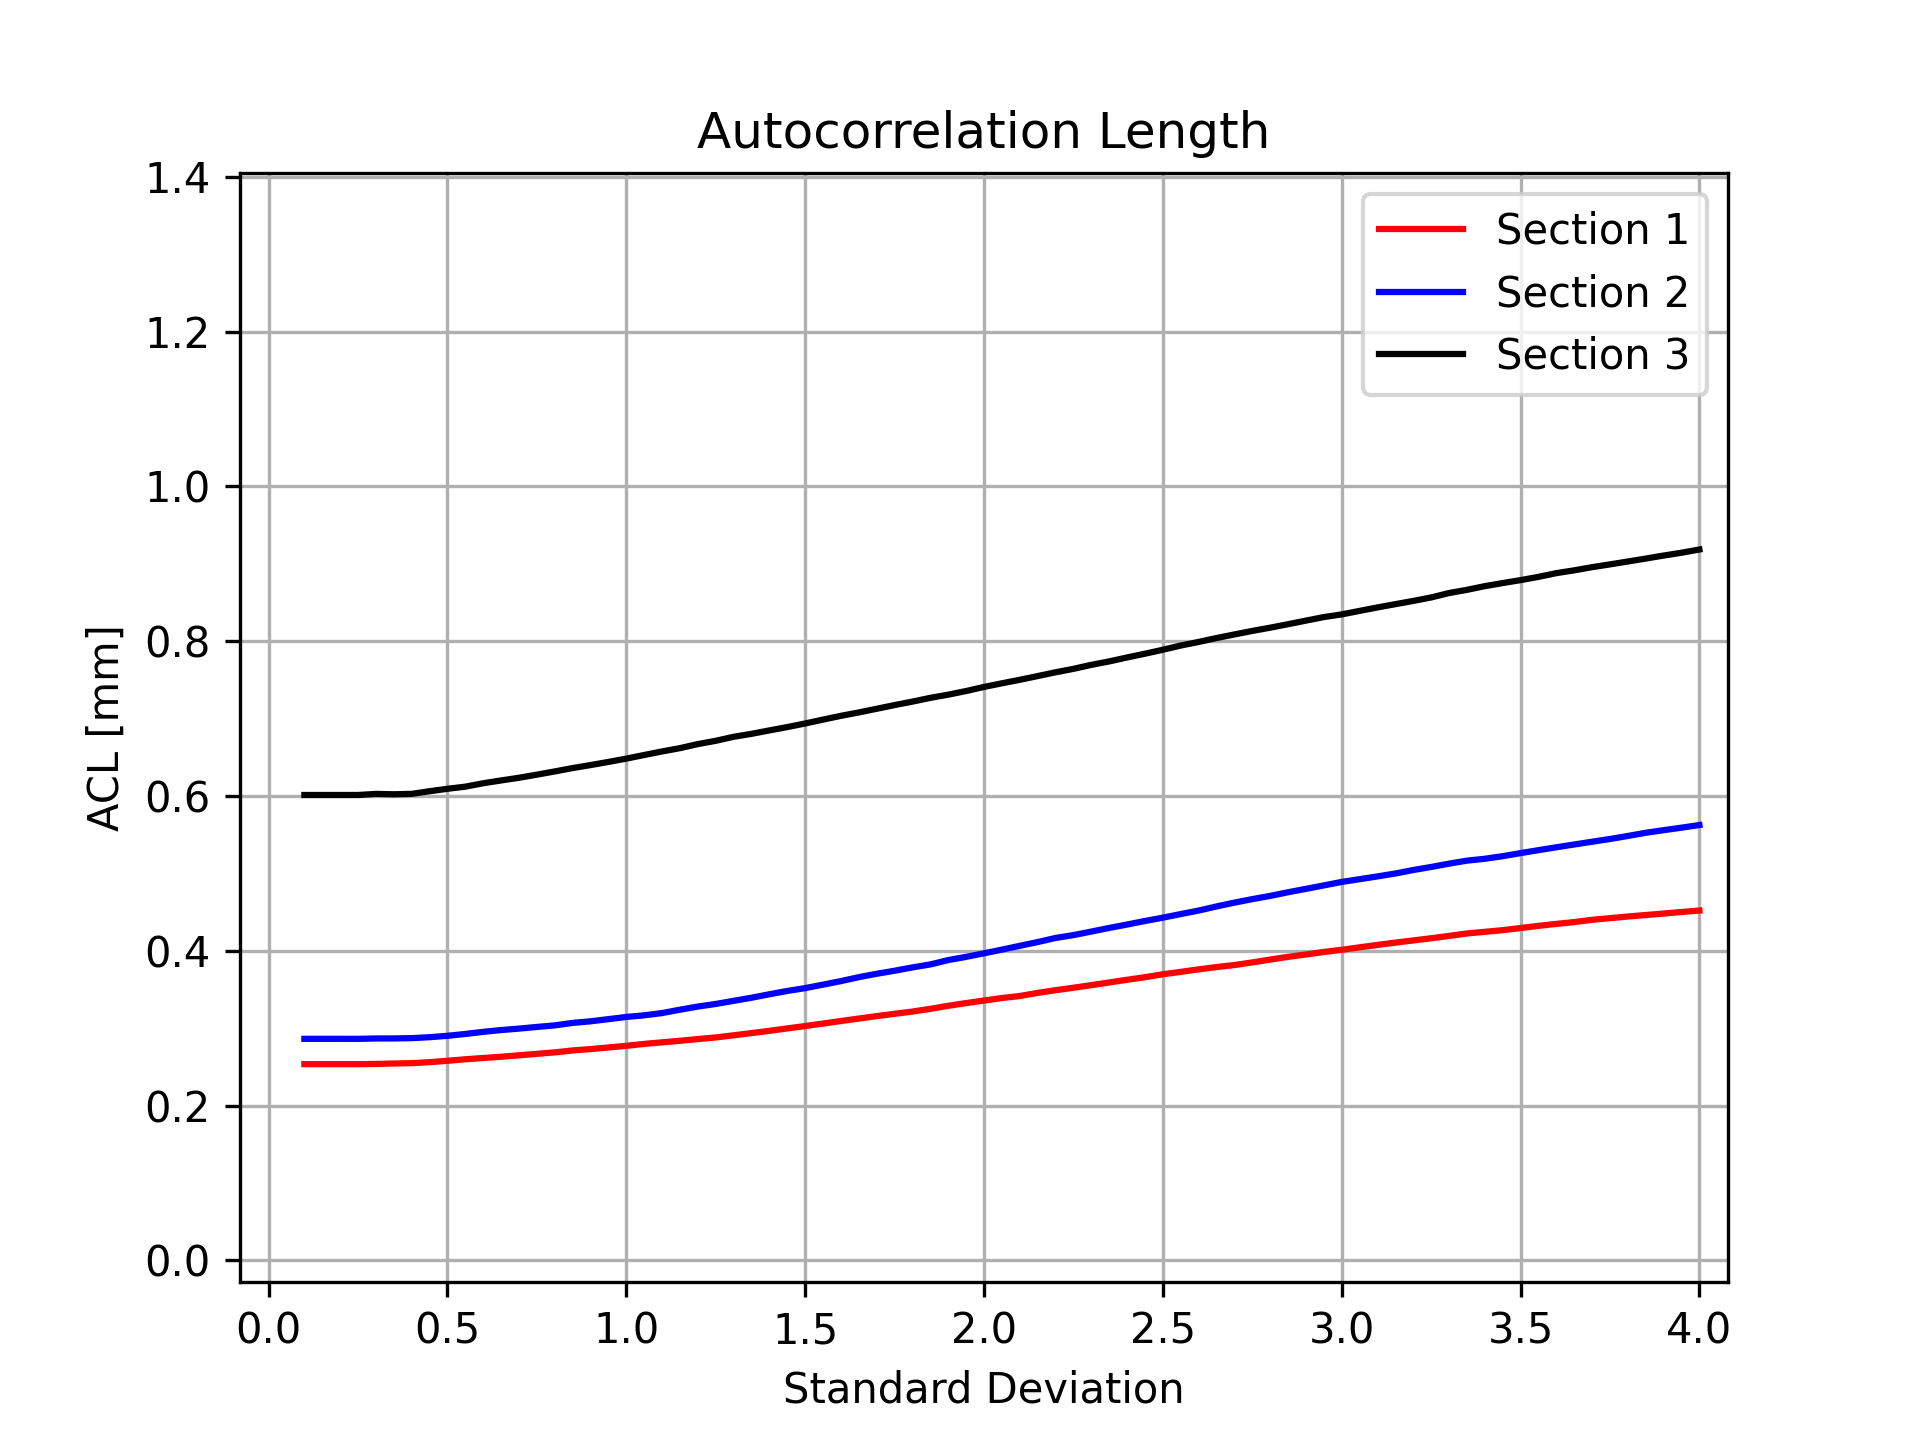
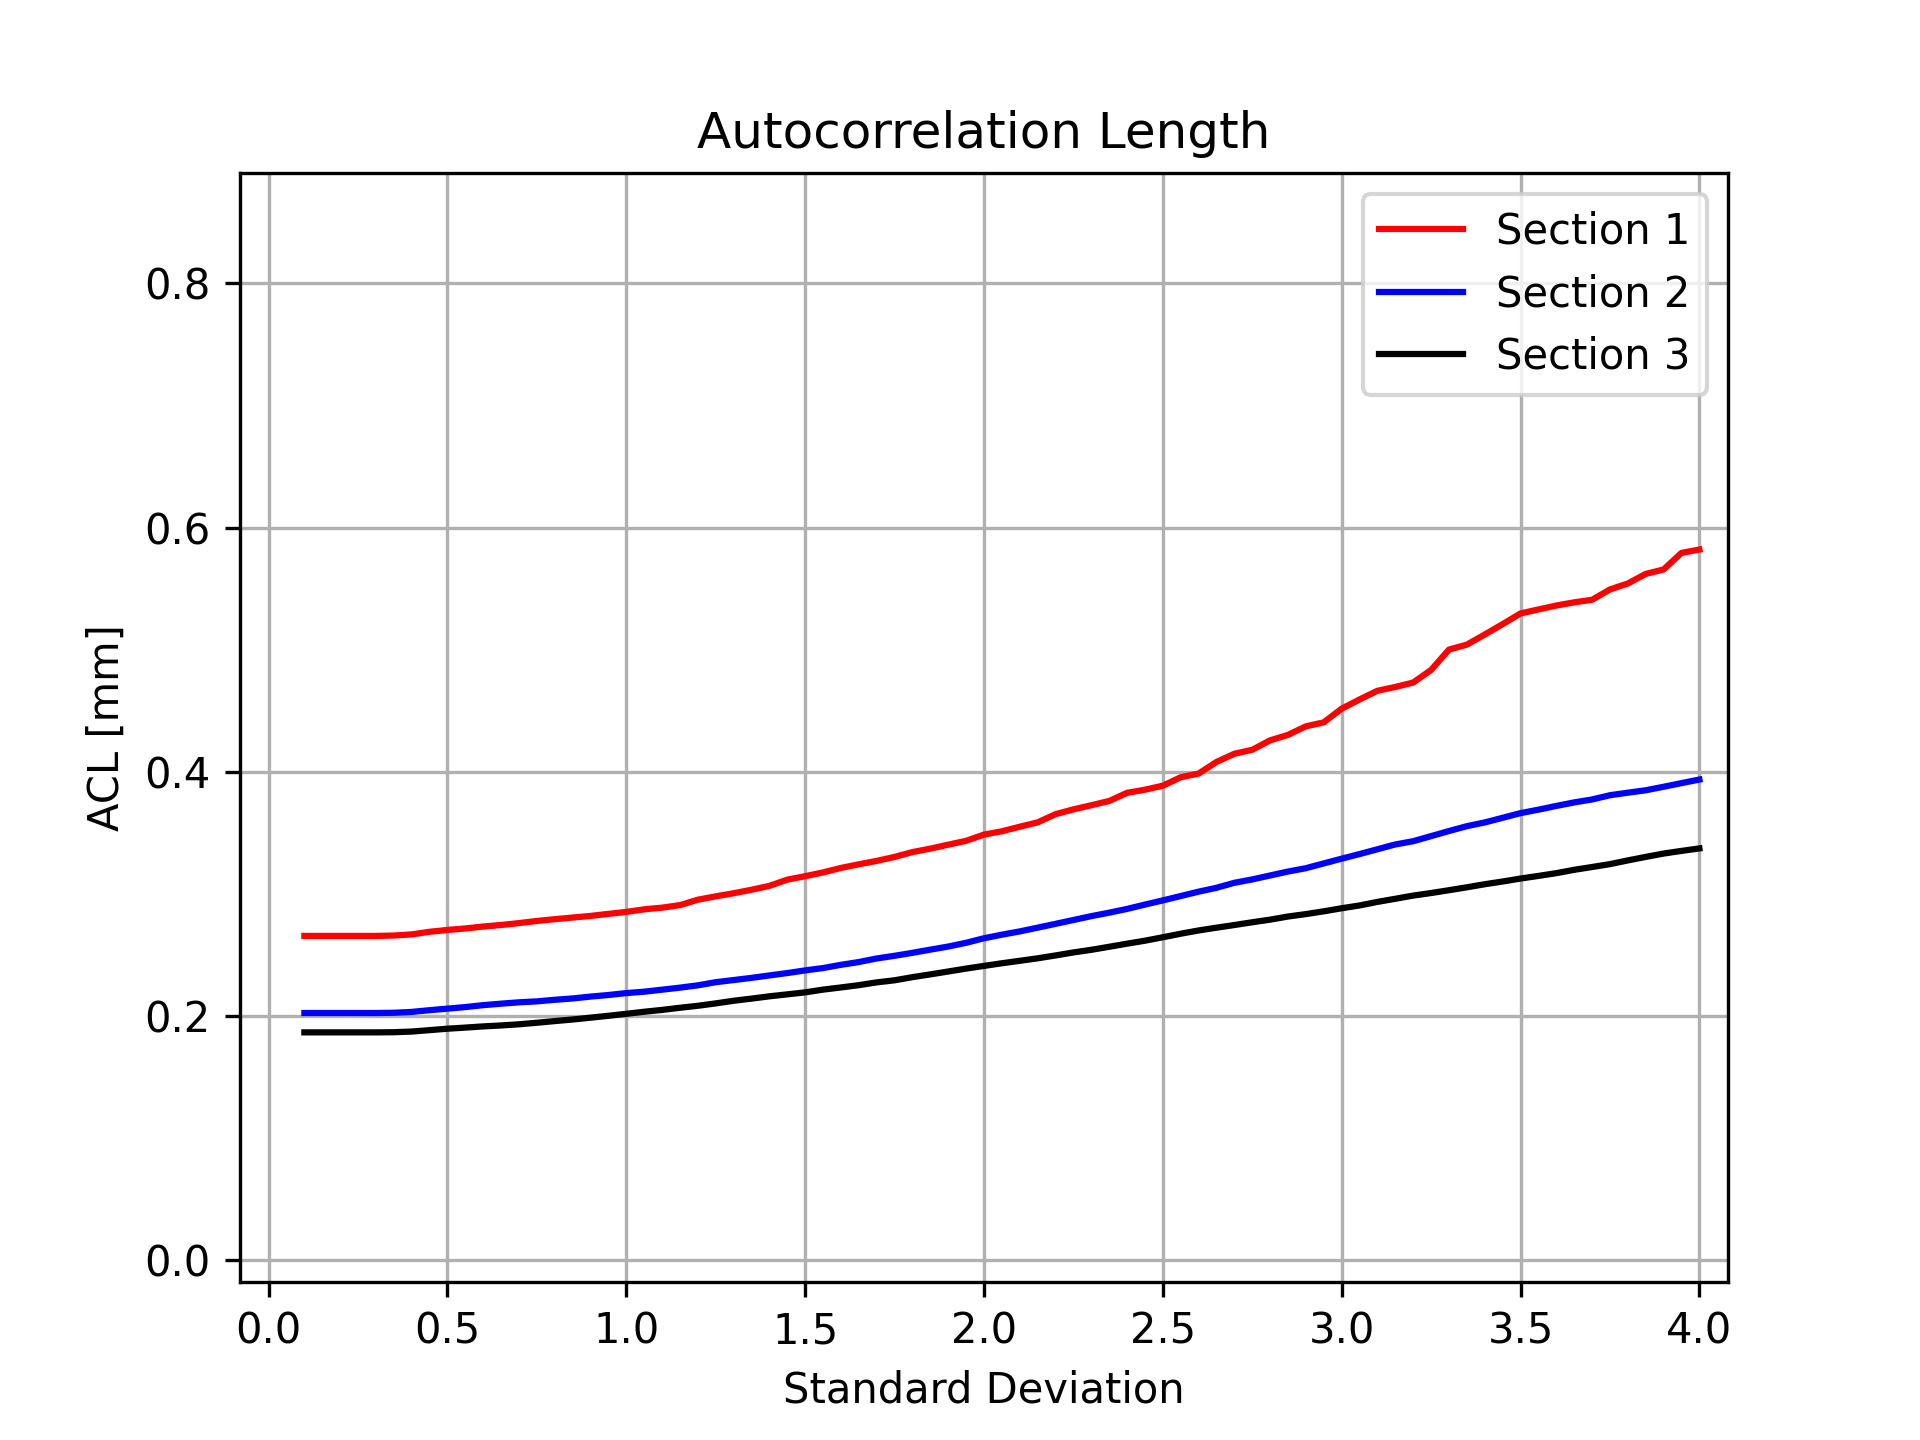
billede updtae

diff --git a/plot_sigma.py b/plot_sigma.py
@@ -11,20 +11,20 @@ if __name__ == "__main__":
     fit = np.array([0])
 
 
-    clip, blurredClip = clipBlur(fname,  x=1650, y=3100, marginX=1350, marginY=1200, sigma=0.25)
+    clip, blurredClip = clipBlur(fname,  x=1725, y=2700, marginX=1225, marginY=1100, sigma=0.25)
 
     plt.figure()
     plt.imshow(clip, cmap = 'gray')
     plt.show()
     plt.close()
-    threshold = 0.5
+    threshold = 0.53
 
     x = np.arange(0.1,4.05,0.05)
     s1 = np.zeros(np.size(x))
     s2 = np.zeros(np.size(x))
     s3 = np.zeros(np.size(x))
     for idx, i in enumerate(x):
-        clip, blurredClip = clipBlur(fname,  x=1650, y=3100, marginX=1350, marginY=1200, sigma=i)
+        clip, blurredClip = clipBlur(fname,  x=1725, y=2700, marginX=1225, marginY=1100, sigma=i)
         clip[blurredClip > threshold] = 0
 
         auflength, functype, plotdata = acf(clip, lags = 200, conversion = 0.03214285714285714, plot = False, plotfunc = fit, ip=40, plotname="Testplot")

diff --git a/plot_threshold.py b/plot_threshold.py
@@ -11,7 +11,7 @@ if __name__ == "__main__":
     fit = np.array([0])
 
 
-    clip, blurredClip = clipBlur(fname, x=1650, y=3100, marginX=1350, marginY=1200, sigma=0.25)
+    clip, blurredClip = clipBlur(fname, x=1725, y=2700, marginX=1225, marginY=1100, sigma=0.25)
 
     plt.figure()
     plt.imshow(clip, cmap = 'gray')

diff --git a/Picture_Menu.py b/Picture_Menu.py
@@ -16,7 +16,7 @@ import numpy as np
 import skimage.io
 import matplotlib
 import matplotlib.pyplot as plt
-from clipBlur import *
+from clipBlur import clipBlur
 # from autocofunc import *
 # from autocolen import *
 # from plot_acf import *
